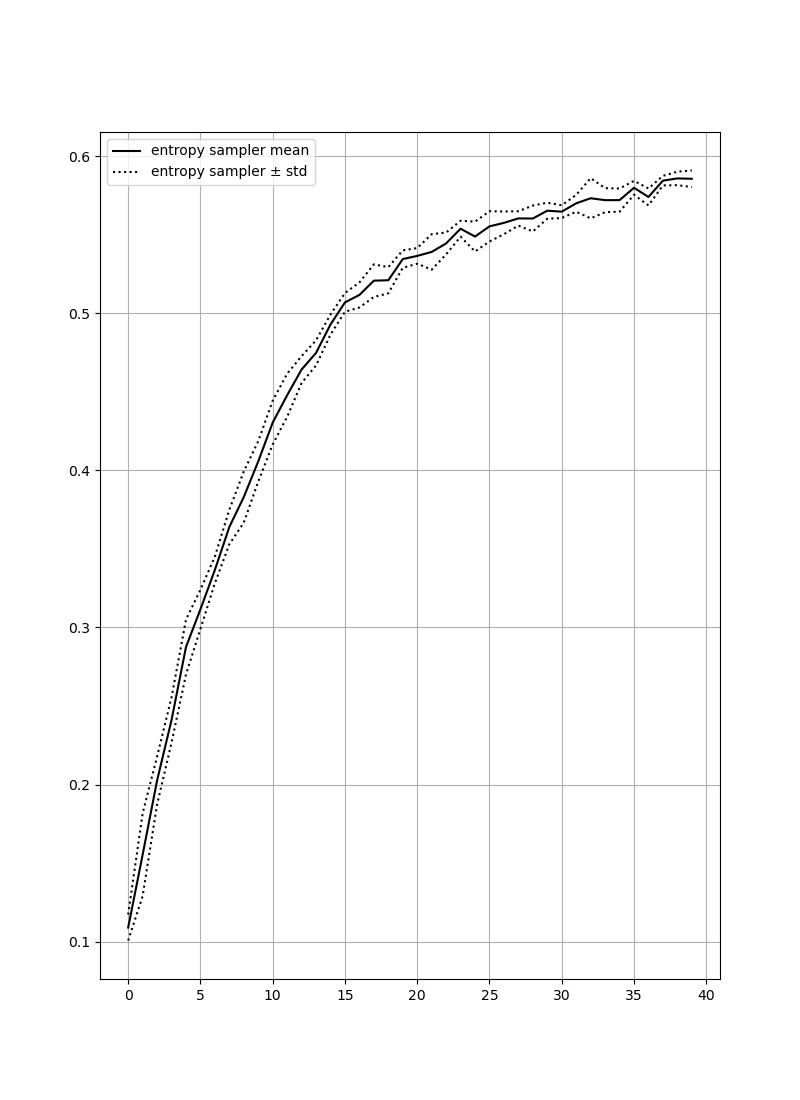
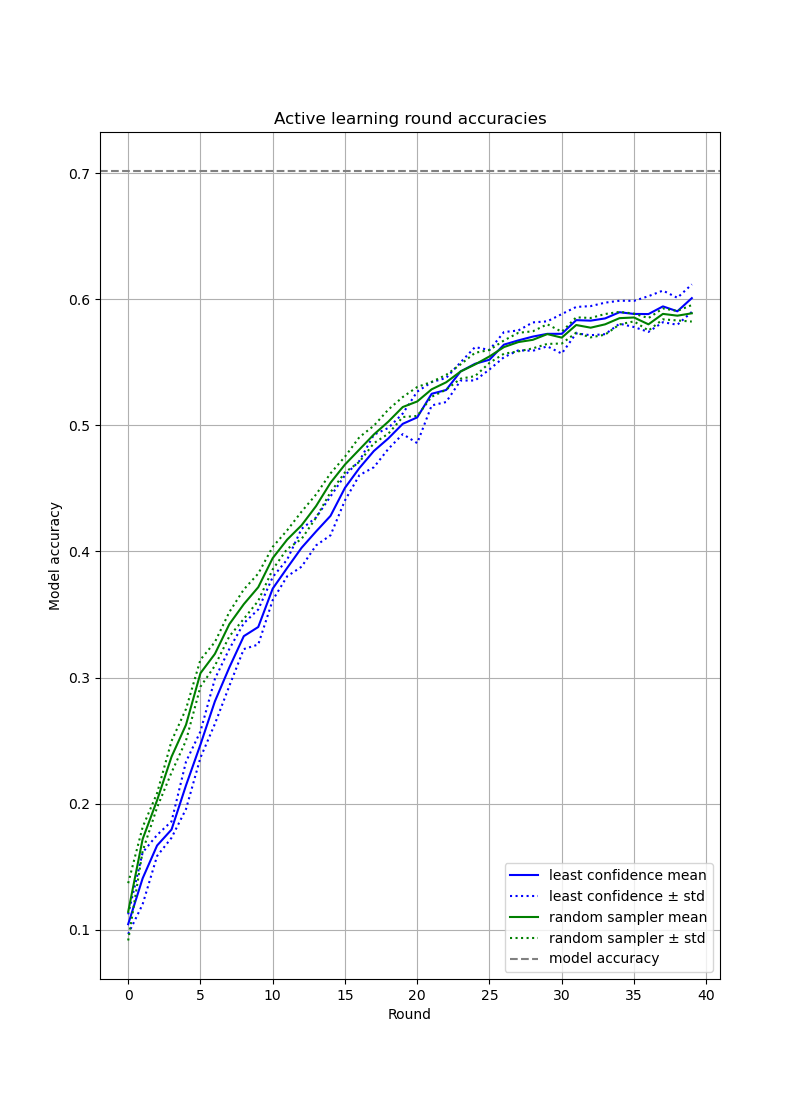
refactor

diff --git a/src/visualization/active_learning_CIFAR10_figure.py b/src/visualization/active_learning_CIFAR10_figure.py
@@ -5,27 +5,32 @@ import sys
 import matplotlib.pyplot as plt
 import numpy as np
 import pandas as pd
+import argparse
+
 
 sys.path.insert(1, os.path.join(sys.path[0], '..'))
 
 if __name__ == "__main__":
+    parser = argparse.ArgumentParser(description="Exeriment arguments")
+    parser.add_argument("--dataset", default="Cifar10")
+    args = parser.parse_args()
+    datasetname = args.dataset
     dirpath = './.cache/active_learning_experiments'
     sample_size = 1000
-    datasetname = ['Cifar10']
+    datasetname = args.dataset
     modelnames = ['Cifar10ConvModel']
     strategies = [
         'least-confidence',
         # 'conformal-score:least-confidence',
-        'conformal-score:largest-set',
+        # 'conformal-score:largest-set',
         'random-sampler',
-        'entropy-sampler'
+        # 'entropy-sampler'
     ]
-    params = list(itertools.product(
-        datasetname, strategies, modelnames))
+    params = list(itertools.product(strategies, modelnames))
 
     fig = plt.figure(figsize=(8, 11))
-    for datasetname, strategy, modelname in params:
-        cache_fname = f"{dirpath}/{datasetname}_{strategy}_{modelname}_1000.csv"
+    for strategy, modelname in params:
+        cache_fname = f"{dirpath}/{datasetname}_{strategy}_{modelname}_{sample_size}.csv"
         df = pd.read_csv(cache_fname)
         str_arr = df.round_accuries.values
         # convert string to np array
@@ -54,4 +59,4 @@ if __name__ == "__main__":
     plt.xlabel('Round')
     plt.title("Active learning round accuracies")
     plt.grid()
-    plt.savefig(f'reports/figures/active_learning_CIFAR10_1000')
+    plt.savefig(f'reports/figures/active_learning_{datasetname}_{sample_size}')
